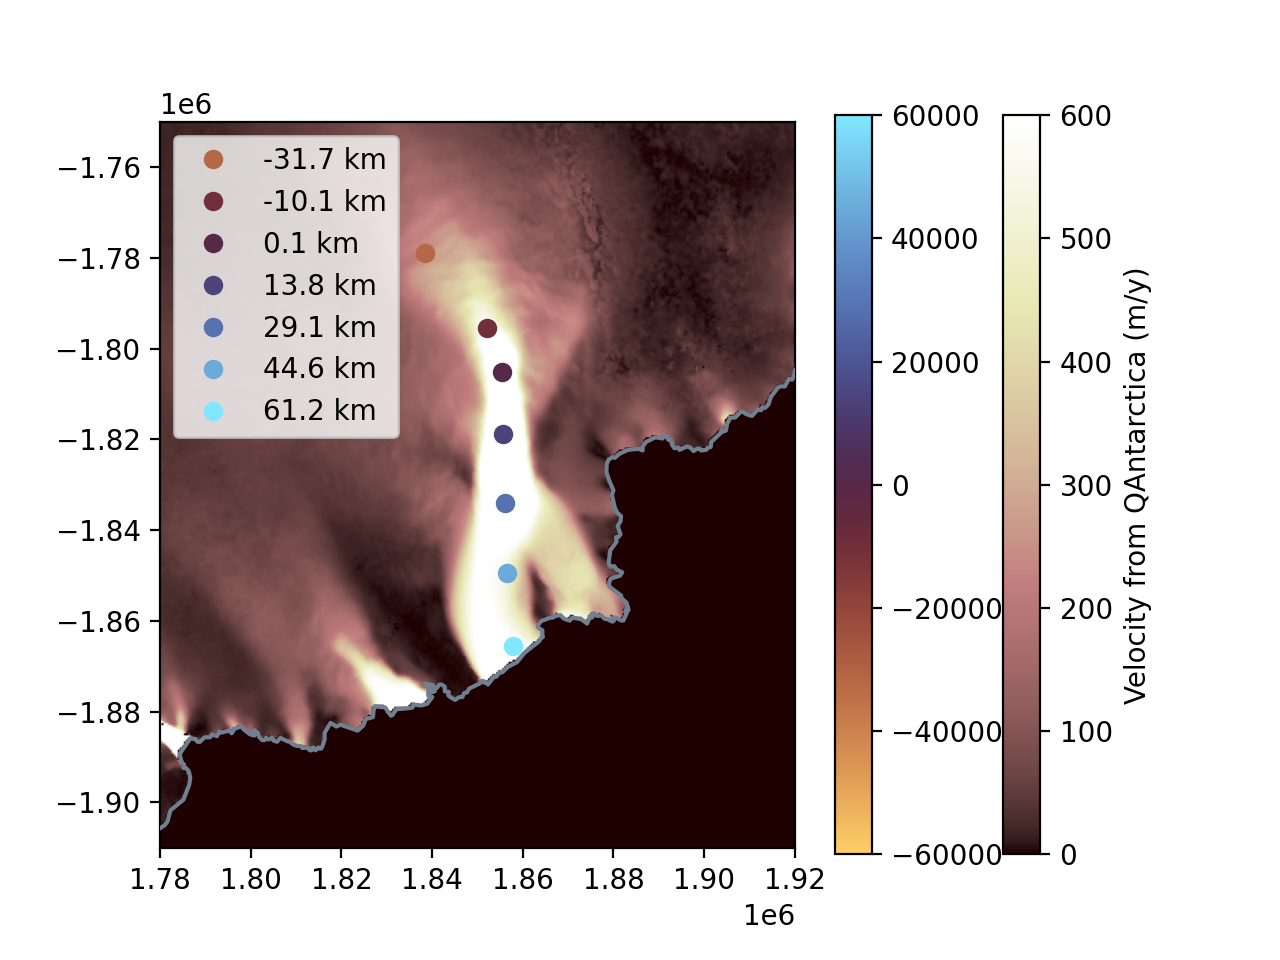
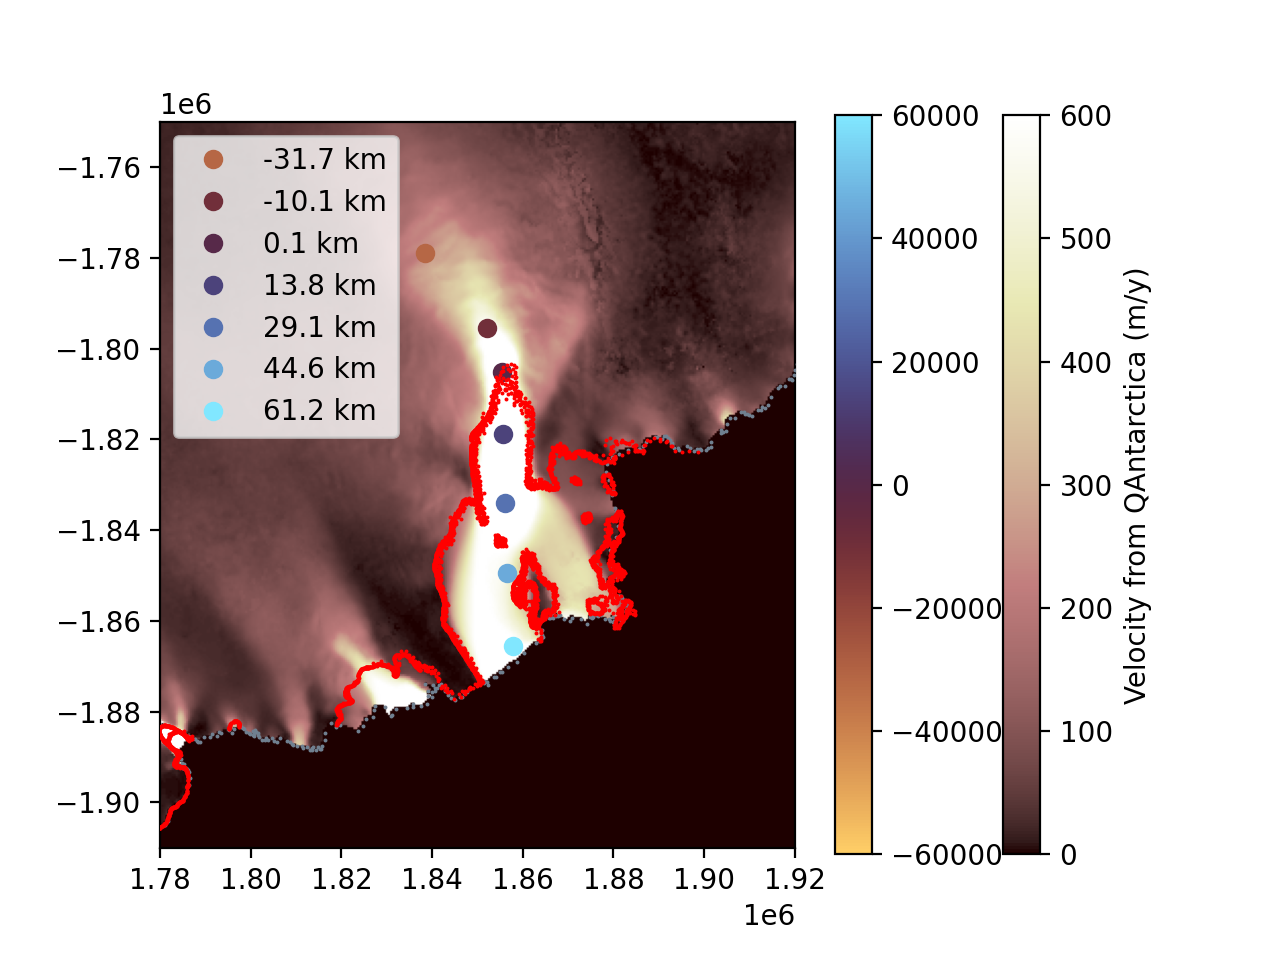
different flow lines charts made

Changed region(s): [[0.25, 0.375, 0.5625, 0.7812], [0.125, 0.75, 0.1875, 0.875]]

diff --git a/src/file_manager.py b/src/file_manager.py
@@ -471,6 +471,10 @@ class ElevationManager(FileManager):
         
         
 
+    def get_interpolated_elevation_fname(self, year):
+        return  'elevation/interp_' + str(year) + "_e." + self.ftype
+        
+
     def get_rema_fname(self, year):
         return  'rema/' + str(year) + "_r." + self.ftype
     
@@ -507,7 +511,7 @@ class ElevationManager(FileManager):
                 continue
             found_files.append(df)
             found_years.append(years[i])
-            found_sources.append('Corregistered REMA')
+            found_sources.append('Coregistered REMA')
 
         df = pd.DataFrame({'time': found_years,
                            'sources': found_sources,
@@ -620,7 +624,7 @@ class ElevationManager(FileManager):
 
 
         for c in range(self.yearStart, self.yearEnd+1):
-            self.file[np.datetime64(str(c))] = pd.DataFrame(columns=['latitude', 'longitude', 'velocity', 'date', 'geometry'])
+            self.file[np.datetime64(str(c))] = pd.DataFrame(columns=['latitude', 'longitude', 'date', 'geometry'])
 
         cur_track = 0
         max = len(D11)
@@ -661,14 +665,92 @@ class ElevationManager(FileManager):
                 output_crs=gdf_final.crs 
             )
 
+
             out_grid["elevation"].rio.to_raster(TIF_LOCATION + self.get_elevation_fname(c) + '.tif')
+
             gdal.Warp(TIF_LOCATION +'reprojected/' + self.get_elevation_fname(c) + '.tif', 
                       TIF_LOCATION + self.get_elevation_fname(c) + '.tif',
                       dstSRS='EPSG:3031')
+            
 
             self.generate_image(False, self.get_elevation_fname(c), self.plotter.plot_elevation, c, reprojected=True)
             i += 1
             progress2.load_bar(i, len(list(self.file.keys())))
+
+        self.build_supplementary_files()
+
+
+    def build_supplementary_files(self):
+
+        ref_year = 2019
+        if not np.datetime64(str(ref_year)) in self.file.keys():
+            self.file[np.datetime64(str(ref_year))] = gpd.read_file(TIF_LOCATION +'reprojected/' + self.get_elevation_fname(ref_year))
+        ref_file = self.file[np.datetime64(str(ref_year))].copy(deep=True)
+
+        ref_file = ref_file.sort_values(by='date')
+        ref_file.drop_duplicates(keep='first')
+
+        print(ref_file)
+
+        progress = LoadingBar()
+        start_year = max(2010, self.yearStart-1)
+        end_year = min(self.yearEnd, 2018)
+
+        for c in range(end_year, start_year, -1): # icesat1 ended in 2010, so don't use the in between rate for before that
+            print(self.file)
+            
+            print(c)
+            offset = xr.open_dataset(ICESAT1_ELEVATION_RATE) * (c-start_year)
+            geom = []
+            lat = []
+            lon = []
+            new_vals = []
+
+            for i, r in ref_file.iterrows():
+                try:
+                    offset_found= offset.sel(x=r['geometry'].x, y=r['geometry'].y, method="nearest", tolerance=20)
+                except:
+                    continue
+                
+                print(offset_found)
+                new_vals.append(r['elevation'] + (offset_found*(c-start_year)))
+                lat.append(r['latitude'])
+                lon.append(r['longitude'])
+                geom.append(r['geometry'])
+            
+
+            dates = [np.datetime64(str(c))] * len(new_vals)
+
+            df = gpd.GeoDataFrame({'latitude': lat,
+                                'longitude': lon, 
+                                'elevation': new_vals['band_data'].values,
+                                'date': dates, 'geometry': geom},  geometry='geometry', crs='EPSG:4326')
+            self.file[c] = df
+            print('geodatarfame made')
+            print(df)
+
+
+            out_grid = make_geocube(
+                vector_data=self.file[c],
+                measurements=["elevation"],
+                resolution=(-0.001, 0.001), 
+                output_crs=self.file[c].crs 
+            )
+
+
+            out_grid["elevation"].rio.to_raster(TIF_LOCATION + self.get_interpolated_elevation_fname(c) + '.tif')
+
+            gdal.Warp(TIF_LOCATION +'reprojected/' + self.get_interpolated_elevation_fname(c) + '.tif', 
+                    TIF_LOCATION + self.get_interpolated_elevation_fname(c) + '.tif',
+                    dstSRS='EPSG:3031')
+            
+
+            self.generate_image(False, self.get_interpolated_elevation_fname(c), self.plotter.plot_elevation, c, reprojected=True)
+
+            
+            progress.load_bar(c - max(2010, self.yearStart-1), self.yearEnd - max(2010, self.yearStart-1))
+
+
 
     def build_rema_files(self):
         for x in list(range(self.yearStart, self.yearEnd+1)):

diff --git a/src/main.py b/src/main.py
@@ -92,13 +92,16 @@ class main():
 
         if self.flags.chart_type() == 'points':
             self.point_name = self.title
-            self.get_points_timeline()
+            points = POINT_LISTS[self.point_name]
+            for i in points:
+                print(i)
+                self.get_points_timeline(i)
             
 
         #print(self.build_files(dim='x'))
         #print(self.build_files(dim='y'))
         #print(self.build_files())
-        #print(self.build_files(data='elev'))
+        print(self.build_files(data='elev'))
         #print(self.build_files(data='rema'))
 
         #self.get_elevation_error()
@@ -166,7 +169,7 @@ class main():
         title = ""
         combo_mode = self.flags.combo_method()
         file_type = self.flags.chart_type()
-        sources = self.flags.sources()
+        sources = self.flags.sources_v()
 
         if combo_mode != "weighted":
             title += combo_mode + "_"
@@ -198,13 +201,7 @@ class main():
 
     
 
-    def get_points_timeline(self, data = ['vel', 'elev', 'grav'], change = True, rema=True): #['vel', 'elev', 'grav']
-        p = Pointwize(self.flags, self.xlim, self.ylim, 
-                        self.point_name, data = 'vel', change=change )
-        
-        p.save_point_df()
-        plt.close('all')
-
+    def get_points_timeline(self, point, data = ['vel', 'elev', 'grav'], change = True, rema=True): #['vel', 'elev', 'grav']
 
         labels = {
             'vel': "Velocity (m/y)",
@@ -228,8 +225,11 @@ class main():
 
         for i, d in enumerate(data):
             p = Pointwize(self.flags, self.xlim, self.ylim, 
-                        self.point_name, data = d, change=change and can_change[d])
+                        point, data = d, change=change and can_change[d])
             p.plot_time_series(fig, ax[i], rema=rema)
+            if i == 0:
+                p.save_point_df() # save the points df if first one made
+                plt.close('all')
 
 
             ax[i].set_ylabel(labels[d])
@@ -242,8 +242,8 @@ class main():
                 ax[i].set_xlabel('Year')
         
         print("Saving image...")
-        plt.savefig("pointwise.png", dpi=200)
-        print("pointwise.png")
+        plt.savefig(POINTWISE_OUTPUT_LOCATION + str(point) +".png", dpi=200)
+        print(POINTWISE_OUTPUT_LOCATION + str(int(point[0])) + '_' + str(int(point[1])) + ".png")
         
         plt.close('all')
 
@@ -269,9 +269,11 @@ class main():
             'grav': GravimetryManager
         }
 
-        sources = self.flags.sources()
+        sources = self.flags.sources_v()
         fm = managers[data](self.xlim, self.ylim, self.flags,
                         data=data)
+        if data == 'elev':
+            fm.build_supplementary_files()
         fm.build_files()
 
 

diff --git a/src/pointwise.py b/src/pointwise.py
@@ -21,7 +21,9 @@ class Pointwize():
         self.yearEnd = int(self.flags.YEAREND)
         self.xlim = xlim
         self.ylim = ylim
-        self.points = POINT_LISTS[points]
+        self.points = points
+        print(points)
+        self.point_label = str(int(points[0])) + '_' + str(int(points[1]))
         self.data = data
         self.change = change
         self.pt_range = pt_range
@@ -35,7 +37,8 @@ class Pointwize():
 
 
         if streamwise:
-            s = StreamFlow(xlim, ylim, flags, self.points[0], point_spacing, pt_range, max_dist=self.max_dist)
+            
+            s = StreamFlow(xlim, ylim, flags, self.points, point_spacing, pt_range, max_dist=self.max_dist)
             self.point_spacing = point_spacing
             e = ElevationManager(xlim, ylim, flags, 'elev')
             self.points, self.labels = s.get_points(e.sample_source)
@@ -57,7 +60,8 @@ class Pointwize():
         df_ref = pd.DataFrame({'geometry':point_geom})
         df_ref = gpd.GeoDataFrame(df_ref, geometry=point_geom, crs='EPSG:3031')
         if len(pointls) > 1:
-            df_ref.to_file("points.gpkg", driver="GPKG")
+            print(str(self.point_label) + ".gpkg")
+            df_ref.to_file(POINTWISE_OUTPUT_LOCATION + str(self.point_label) + ".gpkg", layer="geometry", driver="GPKG")
         return df_ref
     
     
@@ -78,7 +82,7 @@ class Pointwize():
         df['labels'] = labels
 
         
-        p.plot_df_on_borders(df, self.cm, self.norm, self.labels)
+        p.plot_df_on_borders(df, self.cm, self.norm, self.labels, POINTWISE_OUTPUT_LOCATION + str(self.point_label) + "_locations.png")
 
     def gpd_geom_match(self, out, index, column_of_interest = 'elevation',add_result=False):
         p = self.points[index]

diff --git a/src/plotting.py b/src/plotting.py
@@ -190,12 +190,13 @@ class Plotting:
     def plot_shapefile(self, fname, color, z_order = 15, fill=False, extra_xs=[], extra_ys=[]):
         sf = shp.Reader(fname)
         for shape in sf.shapeRecords():
+
             x = [i[0] for i in shape.shape.points[:]] + extra_xs
             y = [i[1] for i in shape.shape.points[:]] + extra_ys
             if fill:
                 plt.fill(x, y, color=color)
             else:
-                plt.plot(x, y, color=color, zorder=z_order)
+                plt.scatter(x, y, color=color, zorder=z_order, marker='o', linewidths=0, s = 2)
         
         
     def plot_glacier_borders(self, fig, ax, grounding_color='black', glacial_color='blue', basin_color="red", fill=False, legend=True, basins=False):
@@ -235,7 +236,7 @@ class Plotting:
         plt.close('all')
 
 
-    def plot_df_on_borders(self, df, cmap, norm, c_list, grounding_color='red', glacial_color='slategrey', extent=None, velocity=True):
+    def plot_df_on_borders(self, df, cmap, norm, c_list, title, grounding_color='red', glacial_color='slategrey', extent=None, velocity=True):
         if extent == None:
             extent = self.extent
         fig, ax = plt.subplots()
@@ -283,8 +284,8 @@ class Plotting:
             plt.ylim(extent[2],  extent[3])
         
         print("Saving image...")
-        plt.savefig("point_locations.png", dpi=200)
-        print("point_locations.png")
+        plt.savefig(title, dpi=200)
+        print(title)
         
         plt.close('all')
 

diff --git a/src/utils.py b/src/utils.py
@@ -23,14 +23,10 @@ AREAS = {
 POINT_LISTS = {
 
     'Dibble' : [
-        #[-1803212,1834870],
-        #[-1753719.5,1833511.6],
-        #[-1776238,1844142],
         [-1805005.87,1855416.14],
-        [-1819464.3,1856519.3],
-        [-1839610,1857715],
-        [-1855995,1851346]
-        
+        [-1835433,1850375],
+        [-1841946,1843270],
+        [-1830432,1861889]
     ],
 
 
@@ -52,10 +48,12 @@ INPUT = "input/"
 ELEVATION_H5_LOCATION = INPUT + "elevation/"
 ELEVATION_LOCATION = INPUT + 'elevation/ATL11_trends_APS.gpkg'
 GRAV_LOCATION = INPUT + "grav/AIS_GMB_grid.tif"
+ICESAT1_ELEVATION_RATE = INPUT + 'elevation/ICESat1_ICESat2_mass_change_updated_2_2021/dhdt/ais_dhdt_grounded_filt.tif'
 
 ELEVATION_GPKG_LOCATION = OUTPUT + 'elevation/'
 TIF_LOCATION = OUTPUT
 TEST_PNG_LOCATION = OUTPUT +"images/"
+POINTWISE_OUTPUT_LOCATION = OUTPUT + 'pointwise/'
 
 REMA_PREVIEW_LOCATION = INPUT + "rema/"
 REMA_RAW_LOCATION = INPUT + "rema/raw/"
@@ -63,7 +61,7 @@ REMA_LOCATION = OUTPUT + "rema/"
 
 SHAPEFILES = {
     'iceshelf': "shapefiles/coastline_EPS.shp",
-    'grounding': "shapefiles/InSAR_GL_Antarctica_v1-1992-2025.shp",
+    'grounding': "shapefiles/InSAR_GL_Antarctica_v1-1992-2025_reprojected.shp",
     'oceanmask': "shapefiles/maskfile.shp",
     'basins': "shapefiles/a_lot_of_basins.shp",
 }
